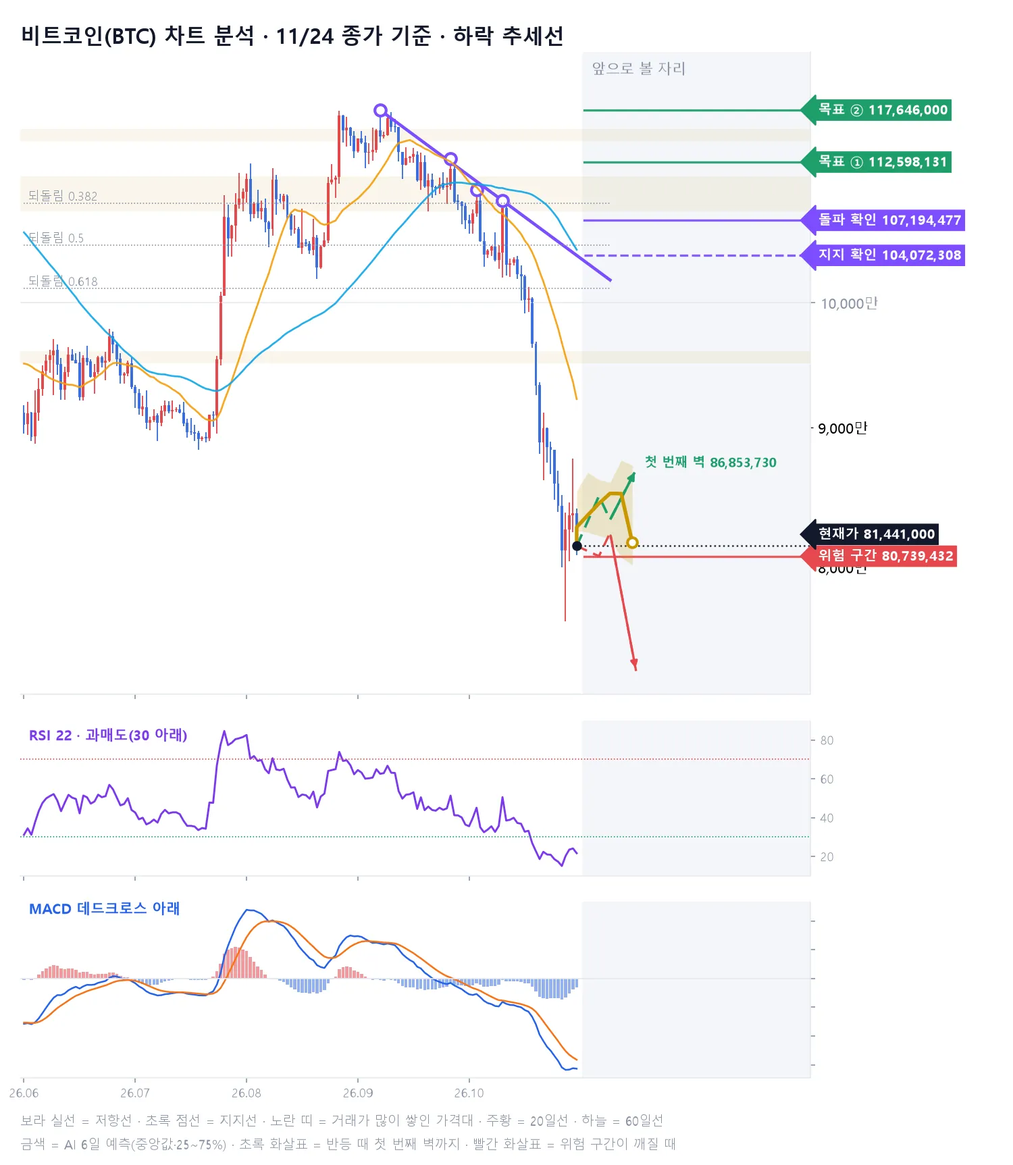
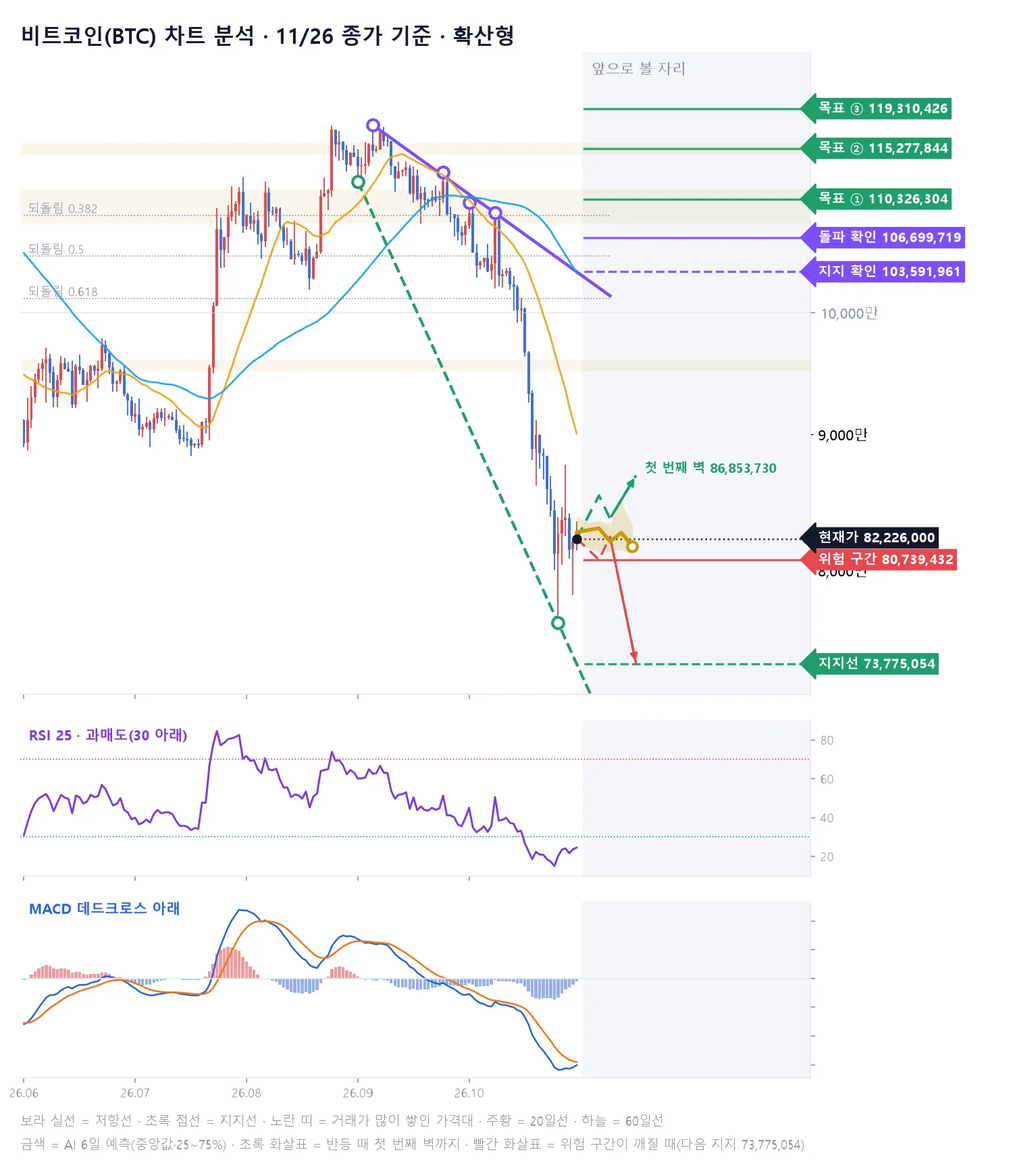
무료 공개 종목 페이지 자동 갱신

diff --git a/s/index.html b/s/index.html
@@ -93,8 +93,8 @@
     <h1>오늘의 무료 공개 종목</h1>
     <p style="margin:0;color:#B7BFD0">유튜브 쇼츠에 나온 종목의 AI 판정과 6일 예측 흐름을 누구나 볼 수 있어요</p>
   </section>
-  <div class="pk-list"><a class="card pk-item" href="ETH/"><span><b>이더리움(ETH)</b><small>코인 · 업비트 · 11/26 예측</small></span><b class="v-mx">혼돈</b></a><a class="card pk-item" href="UNI/"><span><b>유니스왑(UNI)</b><small>코인 · 업비트 · 11/27 예측</small></span><b class="v-mx">혼돈</b></a><a class="card pk-item" href="XLM/"><span><b>스텔라루멘(XLM)</b><small>코인 · 업비트 · 11/27 예측</small></span><b class="v-up">상승</b></a><a class="card pk-item" href="SUI/"><span><b>수이(SUI)</b><small>코인 · 업비트 · 11/27 예측</small></span><b class="v-up">상승</b></a><a class="card pk-item" href="AAVE/"><span><b>에이브(AAVE)</b><small>코인 · 업비트 · 11/27 예측</small></span><b class="v-mx">혼돈</b></a><a class="card pk-item" href="ZRO/"><span><b>레이어제로(ZRO)</b><small>코인 · 업비트 · 11/27 예측</small></span><b class="v-mx">혼돈</b></a><a class="card pk-item" href="JPY_KRW/"><span><b>엔/원 환율(JPY_KRW)</b><small>미국 주식 · 11/27 예측</small></span><b class="v-up">상승</b></a><a class="card pk-item" href="USD_KRW/"><span><b>원/달러 환율(USD_KRW)</b><small>미국 주식 · 11/27 예측</small></span><b class="v-up">상승</b></a><a class="card pk-item" href="SK%ED%95%98%EC%9D%B4%EB%8B%89%EC%8A%A4/"><span><b>SK하이닉스(000660)</b><small>코스피200 · 11/27 예측</small></span><b class="v-mx">혼돈</b></a><a class="card pk-item" href="%EC%82%BC%EC%84%B1%EC%A0%84%EC%9E%90/"><span><b>삼성전자(005930)</b><small>코스피200 · 11/26 예측</small></span><b class="v-mx">혼돈</b></a><a class="card pk-item" href="%ED%98%84%EB%8C%80%EA%B1%B4%EC%84%A4/"><span><b>현대건설</b><small>코스피200 · 11/27 예측</small></span><b class="v-up">상승</b></a><a class="card pk-item" href="KODEXWTI%EC%9B%90%EC%9C%A0%EC%84%A0%EB%AC%BCH/"><span><b>KODEXWTI원유선물H</b><small>코스피200 · 11/27 예측</small></span><b class="v-mx">혼돈</b></a><a class="card pk-item" href="%EC%82%BC%EC%84%B1%EC%A4%91%EA%B3%B5%EC%97%85/"><span><b>삼성중공업</b><small>코스피200 · 11/27 예측</small></span><b class="v-up">상승</b></a><a class="card pk-item" href="LS/"><span><b>LS</b><small>코스피200 · 11/27 예측</small></span><b class="v-up">상승</b></a><a class="card pk-item" href="KB%EA%B8%88%EC%9C%B5/"><span><b>KB금융</b><small>코스피200 · 11/27 예측</small></span><b class="v-up">상승</b></a><a class="card pk-item" href="KOSDAQ/"><span><b>코스닥(KOSDAQ)</b><small>코스피 지수 · 11/27 예측</small></span><b class="v-up">상승</b></a><a class="card pk-item" href="KOSPI/"><span><b>코스피(KOSPI)</b><small>코스피 지수 · 11/27 예측</small></span><b class="v-up">상승</b></a></div>
-  <h2 style="font-size:17px;margin:12px 0 0">지난 공개 종목</h2><div class="pk-list"><a class="card pk-item" href="ENS/"><span><b>이더리움네임서비스(ENS)</b><small>코인 · 업비트 · 11/26 예측</small></span><b class="v-up">상승</b></a><a class="card pk-item" href="1INCH/"><span><b>1인치네트워크(1INCH)</b><small>코인 · 업비트 · 11/26 예측</small></span><b class="v-mx">혼돈</b></a><a class="card pk-item" href="%EB%AF%B8%EB%9E%98%EC%97%90%EC%85%8B%EC%A6%9D%EA%B6%8C/"><span><b>미래에셋증권</b><small>코스피200 · 11/26 예측</small></span><b class="v-up">상승</b></a><a class="card pk-item" href="TIGER%EB%AF%B8%EA%B5%AD%ED%85%8C%ED%81%ACTOP10/"><span><b>TIGER미국테크TOP10</b><small>코스피200 · 11/26 예측</small></span><b class="v-up">상승</b></a><a class="card pk-item" href="KODEX200/"><span><b>KODEX200</b><small>코스피200 · 11/26 예측</small></span><b class="v-up">상승</b></a><a class="card pk-item" href="BTC/"><span><b>비트코인(BTC)</b><small>코인 · 업비트 · 11/25 예측</small></span><b class="v-up">상승</b></a><a class="card pk-item" href="NVIDIA/"><span><b>엔비디아(NVDA)</b><small>미국 주식 · 11/25 예측</small></span><b class="v-up">상승</b></a><a class="card pk-item" href="CHZ/"><span><b>칠리즈(CHZ)</b><small>코인 · 업비트 · 11/25 예측</small></span><b class="v-up">상승</b></a><a class="card pk-item" href="ARK/"><span><b>아크(ARK)</b><small>코인 · 업비트 · 11/25 예측</small></span><b class="v-mx">혼돈</b></a><a class="card pk-item" href="RUSSELL2000/"><span><b>러셀2000(RUSSELL2000)</b><small>미국 주식 · 11/25 예측</small></span><b class="v-up">상승</b></a><a class="card pk-item" href="MONSTER_BEVERAGE/"><span><b>몬스터 베버리지(MONSTER_BEVERAGE)</b><small>미국 주식 · 11/25 예측</small></span><b class="v-up">상승</b></a><a class="card pk-item" href="BITMINE/"><span><b>비트마인(BITMINE)</b><small>미국 주식 · 11/25 예측</small></span><b class="v-up">상승</b></a><a class="card pk-item" href="INTUIT/"><span><b>인튜이트(INTUIT)</b><small>미국 주식 · 11/25 예측</small></span><b class="v-up">상승</b></a><a class="card pk-item" href="GALAXY_DIGITAL/"><span><b>갤럭시 디지털(GALAXY_DIGITAL)</b><small>미국 주식 · 11/25 예측</small></span><b class="v-up">상승</b></a><a class="card pk-item" href="%EC%82%BC%EC%84%B1%EB%B0%94%EC%9D%B4%EC%98%A4%EB%A1%9C%EC%A7%81%EC%8A%A4/"><span><b>삼성바이오로직스</b><small>코스피200 · 11/25 예측</small></span><b class="v-mx">혼돈</b></a><a class="card pk-item" href="%EA%B3%A0%EB%A0%A4%EC%95%84%EC%97%B0/"><span><b>고려아연</b><small>코스피200 · 11/25 예측</small></span><b class="v-up">상승</b></a><a class="card pk-item" href="HD%ED%95%9C%EA%B5%AD%EC%A1%B0%EC%84%A0%ED%95%B4%EC%96%91/"><span><b>HD한국조선해양</b><small>코스피200 · 11/25 예측</small></span><b class="v-mx">혼돈</b></a><a class="card pk-item" href="SK%EC%9D%B4%EB%85%B8%EB%B2%A0%EC%9D%B4%EC%85%98/"><span><b>SK이노베이션</b><small>코스피200 · 11/25 예측</small></span><b class="v-up">상승</b></a><a class="card pk-item" href="ATH/"><span><b>에이셔(ATH)</b><small>코인 · 업비트 · 11/24 예측</small></span><b class="v-up">상승</b></a><a class="card pk-item" href="DATA/"><span><b>데이터네트워크(DATA)</b><small>코인 · 업비트 · 11/24 예측</small></span><b class="v-mx">혼돈</b></a><a class="card pk-item" href="KODEX2%EC%B0%A8%EC%A0%84%EC%A7%80%EC%82%B0%EC%97%85/"><span><b>KODEX2차전지산업</b><small>코스피200 · 11/24 예측</small></span><b class="v-up">상승</b></a><a class="card pk-item" href="TIGER2%EC%B0%A8%EC%A0%84%EC%A7%80%ED%85%8C%EB%A7%88/"><span><b>TIGER2차전지테마</b><small>코스피200 · 11/24 예측</small></span><b class="v-up">상승</b></a><a class="card pk-item" href="KODEX%EC%9E%90%EB%8F%99%EC%B0%A8/"><span><b>KODEX자동차</b><small>코스피200 · 11/24 예측</small></span><b class="v-up">상승</b></a><a class="card pk-item" href="%ED%95%9C%ED%99%94/"><span><b>한화</b><small>코스피200 · 11/24 예측</small></span><b class="v-up">상승</b></a><a class="card pk-item" href="SAND/"><span><b>샌드박스(SAND)</b><small>코인 · 업비트 · 11/23 예측</small></span><b class="v-up">상승</b></a><a class="card pk-item" href="MTL/"><span><b>메탈(MTL)</b><small>코인 · 업비트 · 11/22 예측</small></span><b class="v-up">상승</b></a><a class="card pk-item" href="TESLA/"><span><b>테슬라(TSLA)</b><small>미국 주식 · 11/21 예측</small></span><b class="v-up">상승</b></a><a class="card pk-item" href="PALANTIR/"><span><b>팔란티어(PALANTIR)</b><small>미국 주식 · 11/21 예측</small></span><b class="v-up">상승</b></a><a class="card pk-item" href="DOW/"><span><b>다우존스(DOW)</b><small>미국 주식 · 11/21 예측</small></span><b class="v-up">상승</b></a><a class="card pk-item" href="MERCADOLIBRE/"><span><b>메르카도리브레(MERCADOLIBRE)</b><small>미국 주식 · 11/21 예측</small></span><b class="v-up">상승</b></a><a class="card pk-item" href="%ED%95%9C%ED%99%94%EC%86%94%EB%A3%A8%EC%85%98/"><span><b>한화솔루션</b><small>코스피200 · 11/21 예측</small></span><b class="v-mx">혼돈</b></a><a class="card pk-item" href="KODEX%EB%AF%B8%EA%B5%AD%EB%82%98%EC%8A%A4%EB%8B%A5100TR/"><span><b>KODEX미국나스닥100TR</b><small>코스피200 · 11/21 예측</small></span><b class="v-up">상승</b></a><a class="card pk-item" href="ETC/"><span><b>이더리움클래식(ETC)</b><small>코인 · 업비트 · 11/21 예측</small></span><b class="v-up">상승</b></a><a class="card pk-item" href="MANA/"><span><b>디센트럴랜드(MANA)</b><small>코인 · 업비트 · 11/21 예측</small></span><b class="v-up">상승</b></a><a class="card pk-item" href="APT/"><span><b>앱토스(APT)</b><small>코인 · 업비트 · 11/20 예측</small></span><b class="v-up">상승</b></a><a class="card pk-item" href="STRAX/"><span><b>저트라(STRAX)</b><small>코인 · 업비트 · 11/20 예측</small></span><b class="v-up">상승</b></a><a class="card pk-item" href="%ED%95%9C%EC%A0%84%EA%B8%B0%EC%88%A0/"><span><b>한전기술</b><small>코스피200 · 11/20 예측</small></span><b class="v-up">상승</b></a><a class="card pk-item" href="KODEX%EA%B3%A8%EB%93%9C%EC%84%A0%EB%AC%BCH/"><span><b>KODEX골드선물H</b><small>코스피200 · 11/20 예측</small></span><b class="v-mx">혼돈</b></a><a class="card pk-item" href="STRATEGY/"><span><b>스트래티지(STRATEGY)</b><small>미국 주식 · 11/19 예측</small></span><b class="v-up">상승</b></a><a class="card pk-item" href="NETFLIX/"><span><b>넷플릭스(NETFLIX)</b><small>미국 주식 · 11/19 예측</small></span><b class="v-up">상승</b></a><a class="card pk-item" href="SHIB/"><span><b>시바이누(SHIB)</b><small>코인 · 업비트 · 11/19 예측</small></span><b class="v-up">상승</b></a><a class="card pk-item" href="TOKAMAK/"><span><b>토카막네트워크(TOKAMAK)</b><small>코인 · 업비트 · 11/19 예측</small></span><b class="v-up">상승</b></a><a class="card pk-item" href="TIGER%EB%AF%B8%EA%B5%ADSP500/"><span><b>TIGER미국SP500</b><small>코스피200 · 11/19 예측</small></span><b class="v-mx">혼돈</b></a><a class="card pk-item" href="%EA%B8%B0%EC%95%84/"><span><b>기아</b><small>코스피200 · 11/19 예측</small></span><b class="v-mx">혼돈</b></a><a class="card pk-item" href="%ED%98%84%EB%8C%80%EB%A1%9C%ED%85%9C/"><span><b>현대로템</b><small>코스피200 · 11/19 예측</small></span><b class="v-up">상승</b></a><a class="card pk-item" href="TIGER%EB%B0%98%EB%8F%84%EC%B2%B4TOP10/"><span><b>TIGER반도체TOP10</b><small>코스피200 · 11/19 예측</small></span><b class="v-up">상승</b></a><a class="card pk-item" href="MBL/"><span><b>무비블록(MBL)</b><small>코인 · 업비트 · 11/18 예측</small></span><b class="v-up">상승</b></a><a class="card pk-item" href="SC/"><span><b>시아코인(SC)</b><small>코인 · 업비트 · 11/18 예측</small></span><b class="v-up">상승</b></a><a class="card pk-item" href="ELF/"><span><b>엘프(ELF)</b><small>코인 · 업비트 · 11/18 예측</small></span><b class="v-up">상승</b></a><a class="card pk-item" href="NASDAQ100/"><span><b>나스닥100(NASDAQ100)</b><small>미국 주식 · 11/18 예측</small></span><b class="v-up">상승</b></a><a class="card pk-item" href="NASDAQ/"><span><b>나스닥(NASDAQ)</b><small>미국 주식 · 11/18 예측</small></span><b class="v-up">상승</b></a><a class="card pk-item" href="DB%ED%95%98%EC%9D%B4%ED%85%8D/"><span><b>DB하이텍</b><small>코스피200 · 11/18 예측</small></span><b class="v-up">상승</b></a><a class="card pk-item" href="%ED%95%9C%ED%99%94%EC%83%9D%EB%AA%85/"><span><b>한화생명</b><small>코스피200 · 11/18 예측</small></span><b class="v-mx">혼돈</b></a><a class="card pk-item" href="SOL/"><span><b>솔라나(SOL)</b><small>코인 · 업비트 · 11/17 예측</small></span><b class="v-up">상승</b></a><a class="card pk-item" href="HBAR/"><span><b>헤데라(HBAR)</b><small>코인 · 업비트 · 11/17 예측</small></span><b class="v-up">상승</b></a><a class="card pk-item" href="NEAR/"><span><b>니어프로토콜(NEAR)</b><small>코인 · 업비트 · 11/17 예측</small></span><b class="v-up">상승</b></a><a class="card pk-item" href="CISCO/"><span><b>시스코(CISCO)</b><small>미국 주식 · 11/17 예측</small></span><b class="v-up">상승</b></a><a class="card pk-item" href="DB%EC%86%90%ED%95%B4%EB%B3%B4%ED%97%98/"><span><b>DB손해보험</b><small>코스피200 · 11/17 예측</small></span><b class="v-up">상승</b></a><a class="card pk-item" href="NIKKEI225/"><span><b>NIKKEI225</b><small>코스피200 · 11/17 예측</small></span><b class="v-up">상승</b></a><a class="card pk-item" href="LG/"><span><b>LG</b><small>코스피200 · 11/17 예측</small></span><b class="v-up">상승</b></a><a class="card pk-item" href="NEO/"><span><b>네오(NEO)</b><small>코인 · 업비트 · 11/16 예측</small></span><b class="v-up">상승</b></a><a class="card pk-item" href="MED/"><span><b>메디블록(MED)</b><small>코인 · 업비트 · 11/16 예측</small></span><b class="v-up">상승</b></a><a class="card pk-item" href="VET/"><span><b>비체인(VET)</b><small>코인 · 업비트 · 11/16 예측</small></span><b class="v-up">상승</b></a><a class="card pk-item" href="TFUEL/"><span><b>쎄타퓨엘(TFUEL)</b><small>코인 · 업비트 · 11/16 예측</small></span><b class="v-up">상승</b></a><a class="card pk-item" href="SP500/"><span><b>S&amp;P500(SPX)</b><small>미국 주식 · 11/14 예측</small></span><b class="v-dn">하락</b></a><a class="card pk-item" href="BITCOIN_ETF_FIDELITY/"><span><b>비트코인 현물 피델리티(BITCOIN_ETF_FIDELITY)</b><small>미국 주식 · 11/14 예측</small></span><b class="v-up">상승</b></a><a class="card pk-item" href="BITCOIN_ETF_ISHARES/"><span><b>비트코인 현물 아이셰어즈(BITCOIN_ETF_ISHARES)</b><small>미국 주식 · 11/14 예측</small></span><b class="v-up">상승</b></a></div>
+  <div class="pk-list"><a class="card pk-item" href="BTC/"><span><b>비트코인(BTC)</b><small>코인 · 업비트 · 11/27 예측</small></span><b class="v-mx">혼돈</b></a><a class="card pk-item" href="ETH/"><span><b>이더리움(ETH)</b><small>코인 · 업비트 · 11/26 예측</small></span><b class="v-mx">혼돈</b></a><a class="card pk-item" href="UNI/"><span><b>유니스왑(UNI)</b><small>코인 · 업비트 · 11/27 예측</small></span><b class="v-mx">혼돈</b></a><a class="card pk-item" href="XLM/"><span><b>스텔라루멘(XLM)</b><small>코인 · 업비트 · 11/27 예측</small></span><b class="v-up">상승</b></a><a class="card pk-item" href="SUI/"><span><b>수이(SUI)</b><small>코인 · 업비트 · 11/27 예측</small></span><b class="v-up">상승</b></a><a class="card pk-item" href="AAVE/"><span><b>에이브(AAVE)</b><small>코인 · 업비트 · 11/27 예측</small></span><b class="v-mx">혼돈</b></a><a class="card pk-item" href="ZRO/"><span><b>레이어제로(ZRO)</b><small>코인 · 업비트 · 11/27 예측</small></span><b class="v-mx">혼돈</b></a><a class="card pk-item" href="JPY_KRW/"><span><b>엔/원 환율(JPY_KRW)</b><small>미국 주식 · 11/27 예측</small></span><b class="v-up">상승</b></a><a class="card pk-item" href="USD_KRW/"><span><b>원/달러 환율(USD_KRW)</b><small>미국 주식 · 11/27 예측</small></span><b class="v-up">상승</b></a><a class="card pk-item" href="SK%ED%95%98%EC%9D%B4%EB%8B%89%EC%8A%A4/"><span><b>SK하이닉스(000660)</b><small>코스피200 · 11/27 예측</small></span><b class="v-mx">혼돈</b></a><a class="card pk-item" href="%EC%82%BC%EC%84%B1%EC%A0%84%EC%9E%90/"><span><b>삼성전자(005930)</b><small>코스피200 · 11/26 예측</small></span><b class="v-mx">혼돈</b></a><a class="card pk-item" href="%ED%98%84%EB%8C%80%EA%B1%B4%EC%84%A4/"><span><b>현대건설</b><small>코스피200 · 11/27 예측</small></span><b class="v-up">상승</b></a><a class="card pk-item" href="KODEXWTI%EC%9B%90%EC%9C%A0%EC%84%A0%EB%AC%BCH/"><span><b>KODEXWTI원유선물H</b><small>코스피200 · 11/27 예측</small></span><b class="v-mx">혼돈</b></a><a class="card pk-item" href="%EC%82%BC%EC%84%B1%EC%A4%91%EA%B3%B5%EC%97%85/"><span><b>삼성중공업</b><small>코스피200 · 11/27 예측</small></span><b class="v-up">상승</b></a><a class="card pk-item" href="LS/"><span><b>LS</b><small>코스피200 · 11/27 예측</small></span><b class="v-up">상승</b></a><a class="card pk-item" href="KB%EA%B8%88%EC%9C%B5/"><span><b>KB금융</b><small>코스피200 · 11/27 예측</small></span><b class="v-up">상승</b></a><a class="card pk-item" href="KOSDAQ/"><span><b>코스닥(KOSDAQ)</b><small>코스피 지수 · 11/27 예측</small></span><b class="v-up">상승</b></a><a class="card pk-item" href="KOSPI/"><span><b>코스피(KOSPI)</b><small>코스피 지수 · 11/27 예측</small></span><b class="v-up">상승</b></a></div>
+  <h2 style="font-size:17px;margin:12px 0 0">지난 공개 종목</h2><div class="pk-list"><a class="card pk-item" href="ENS/"><span><b>이더리움네임서비스(ENS)</b><small>코인 · 업비트 · 11/26 예측</small></span><b class="v-up">상승</b></a><a class="card pk-item" href="1INCH/"><span><b>1인치네트워크(1INCH)</b><small>코인 · 업비트 · 11/26 예측</small></span><b class="v-mx">혼돈</b></a><a class="card pk-item" href="%EB%AF%B8%EB%9E%98%EC%97%90%EC%85%8B%EC%A6%9D%EA%B6%8C/"><span><b>미래에셋증권</b><small>코스피200 · 11/26 예측</small></span><b class="v-up">상승</b></a><a class="card pk-item" href="TIGER%EB%AF%B8%EA%B5%AD%ED%85%8C%ED%81%ACTOP10/"><span><b>TIGER미국테크TOP10</b><small>코스피200 · 11/26 예측</small></span><b class="v-up">상승</b></a><a class="card pk-item" href="KODEX200/"><span><b>KODEX200</b><small>코스피200 · 11/26 예측</small></span><b class="v-up">상승</b></a><a class="card pk-item" href="NVIDIA/"><span><b>엔비디아(NVDA)</b><small>미국 주식 · 11/25 예측</small></span><b class="v-up">상승</b></a><a class="card pk-item" href="CHZ/"><span><b>칠리즈(CHZ)</b><small>코인 · 업비트 · 11/25 예측</small></span><b class="v-up">상승</b></a><a class="card pk-item" href="ARK/"><span><b>아크(ARK)</b><small>코인 · 업비트 · 11/25 예측</small></span><b class="v-mx">혼돈</b></a><a class="card pk-item" href="RUSSELL2000/"><span><b>러셀2000(RUSSELL2000)</b><small>미국 주식 · 11/25 예측</small></span><b class="v-up">상승</b></a><a class="card pk-item" href="MONSTER_BEVERAGE/"><span><b>몬스터 베버리지(MONSTER_BEVERAGE)</b><small>미국 주식 · 11/25 예측</small></span><b class="v-up">상승</b></a><a class="card pk-item" href="BITMINE/"><span><b>비트마인(BITMINE)</b><small>미국 주식 · 11/25 예측</small></span><b class="v-up">상승</b></a><a class="card pk-item" href="INTUIT/"><span><b>인튜이트(INTUIT)</b><small>미국 주식 · 11/25 예측</small></span><b class="v-up">상승</b></a><a class="card pk-item" href="GALAXY_DIGITAL/"><span><b>갤럭시 디지털(GALAXY_DIGITAL)</b><small>미국 주식 · 11/25 예측</small></span><b class="v-up">상승</b></a><a class="card pk-item" href="%EC%82%BC%EC%84%B1%EB%B0%94%EC%9D%B4%EC%98%A4%EB%A1%9C%EC%A7%81%EC%8A%A4/"><span><b>삼성바이오로직스</b><small>코스피200 · 11/25 예측</small></span><b class="v-mx">혼돈</b></a><a class="card pk-item" href="%EA%B3%A0%EB%A0%A4%EC%95%84%EC%97%B0/"><span><b>고려아연</b><small>코스피200 · 11/25 예측</small></span><b class="v-up">상승</b></a><a class="card pk-item" href="HD%ED%95%9C%EA%B5%AD%EC%A1%B0%EC%84%A0%ED%95%B4%EC%96%91/"><span><b>HD한국조선해양</b><small>코스피200 · 11/25 예측</small></span><b class="v-mx">혼돈</b></a><a class="card pk-item" href="SK%EC%9D%B4%EB%85%B8%EB%B2%A0%EC%9D%B4%EC%85%98/"><span><b>SK이노베이션</b><small>코스피200 · 11/25 예측</small></span><b class="v-up">상승</b></a><a class="card pk-item" href="ATH/"><span><b>에이셔(ATH)</b><small>코인 · 업비트 · 11/24 예측</small></span><b class="v-up">상승</b></a><a class="card pk-item" href="DATA/"><span><b>데이터네트워크(DATA)</b><small>코인 · 업비트 · 11/24 예측</small></span><b class="v-mx">혼돈</b></a><a class="card pk-item" href="KODEX2%EC%B0%A8%EC%A0%84%EC%A7%80%EC%82%B0%EC%97%85/"><span><b>KODEX2차전지산업</b><small>코스피200 · 11/24 예측</small></span><b class="v-up">상승</b></a><a class="card pk-item" href="TIGER2%EC%B0%A8%EC%A0%84%EC%A7%80%ED%85%8C%EB%A7%88/"><span><b>TIGER2차전지테마</b><small>코스피200 · 11/24 예측</small></span><b class="v-up">상승</b></a><a class="card pk-item" href="KODEX%EC%9E%90%EB%8F%99%EC%B0%A8/"><span><b>KODEX자동차</b><small>코스피200 · 11/24 예측</small></span><b class="v-up">상승</b></a><a class="card pk-item" href="%ED%95%9C%ED%99%94/"><span><b>한화</b><small>코스피200 · 11/24 예측</small></span><b class="v-up">상승</b></a><a class="card pk-item" href="SAND/"><span><b>샌드박스(SAND)</b><small>코인 · 업비트 · 11/23 예측</small></span><b class="v-up">상승</b></a><a class="card pk-item" href="MTL/"><span><b>메탈(MTL)</b><small>코인 · 업비트 · 11/22 예측</small></span><b class="v-up">상승</b></a><a class="card pk-item" href="TESLA/"><span><b>테슬라(TSLA)</b><small>미국 주식 · 11/21 예측</small></span><b class="v-up">상승</b></a><a class="card pk-item" href="PALANTIR/"><span><b>팔란티어(PALANTIR)</b><small>미국 주식 · 11/21 예측</small></span><b class="v-up">상승</b></a><a class="card pk-item" href="DOW/"><span><b>다우존스(DOW)</b><small>미국 주식 · 11/21 예측</small></span><b class="v-up">상승</b></a><a class="card pk-item" href="MERCADOLIBRE/"><span><b>메르카도리브레(MERCADOLIBRE)</b><small>미국 주식 · 11/21 예측</small></span><b class="v-up">상승</b></a><a class="card pk-item" href="%ED%95%9C%ED%99%94%EC%86%94%EB%A3%A8%EC%85%98/"><span><b>한화솔루션</b><small>코스피200 · 11/21 예측</small></span><b class="v-mx">혼돈</b></a><a class="card pk-item" href="KODEX%EB%AF%B8%EA%B5%AD%EB%82%98%EC%8A%A4%EB%8B%A5100TR/"><span><b>KODEX미국나스닥100TR</b><small>코스피200 · 11/21 예측</small></span><b class="v-up">상승</b></a><a class="card pk-item" href="ETC/"><span><b>이더리움클래식(ETC)</b><small>코인 · 업비트 · 11/21 예측</small></span><b class="v-up">상승</b></a><a class="card pk-item" href="MANA/"><span><b>디센트럴랜드(MANA)</b><small>코인 · 업비트 · 11/21 예측</small></span><b class="v-up">상승</b></a><a class="card pk-item" href="APT/"><span><b>앱토스(APT)</b><small>코인 · 업비트 · 11/20 예측</small></span><b class="v-up">상승</b></a><a class="card pk-item" href="STRAX/"><span><b>저트라(STRAX)</b><small>코인 · 업비트 · 11/20 예측</small></span><b class="v-up">상승</b></a><a class="card pk-item" href="%ED%95%9C%EC%A0%84%EA%B8%B0%EC%88%A0/"><span><b>한전기술</b><small>코스피200 · 11/20 예측</small></span><b class="v-up">상승</b></a><a class="card pk-item" href="KODEX%EA%B3%A8%EB%93%9C%EC%84%A0%EB%AC%BCH/"><span><b>KODEX골드선물H</b><small>코스피200 · 11/20 예측</small></span><b class="v-mx">혼돈</b></a><a class="card pk-item" href="STRATEGY/"><span><b>스트래티지(STRATEGY)</b><small>미국 주식 · 11/19 예측</small></span><b class="v-up">상승</b></a><a class="card pk-item" href="NETFLIX/"><span><b>넷플릭스(NETFLIX)</b><small>미국 주식 · 11/19 예측</small></span><b class="v-up">상승</b></a><a class="card pk-item" href="SHIB/"><span><b>시바이누(SHIB)</b><small>코인 · 업비트 · 11/19 예측</small></span><b class="v-up">상승</b></a><a class="card pk-item" href="TOKAMAK/"><span><b>토카막네트워크(TOKAMAK)</b><small>코인 · 업비트 · 11/19 예측</small></span><b class="v-up">상승</b></a><a class="card pk-item" href="TIGER%EB%AF%B8%EA%B5%ADSP500/"><span><b>TIGER미국SP500</b><small>코스피200 · 11/19 예측</small></span><b class="v-mx">혼돈</b></a><a class="card pk-item" href="%EA%B8%B0%EC%95%84/"><span><b>기아</b><small>코스피200 · 11/19 예측</small></span><b class="v-mx">혼돈</b></a><a class="card pk-item" href="%ED%98%84%EB%8C%80%EB%A1%9C%ED%85%9C/"><span><b>현대로템</b><small>코스피200 · 11/19 예측</small></span><b class="v-up">상승</b></a><a class="card pk-item" href="TIGER%EB%B0%98%EB%8F%84%EC%B2%B4TOP10/"><span><b>TIGER반도체TOP10</b><small>코스피200 · 11/19 예측</small></span><b class="v-up">상승</b></a><a class="card pk-item" href="MBL/"><span><b>무비블록(MBL)</b><small>코인 · 업비트 · 11/18 예측</small></span><b class="v-up">상승</b></a><a class="card pk-item" href="SC/"><span><b>시아코인(SC)</b><small>코인 · 업비트 · 11/18 예측</small></span><b class="v-up">상승</b></a><a class="card pk-item" href="ELF/"><span><b>엘프(ELF)</b><small>코인 · 업비트 · 11/18 예측</small></span><b class="v-up">상승</b></a><a class="card pk-item" href="NASDAQ100/"><span><b>나스닥100(NASDAQ100)</b><small>미국 주식 · 11/18 예측</small></span><b class="v-up">상승</b></a><a class="card pk-item" href="NASDAQ/"><span><b>나스닥(NASDAQ)</b><small>미국 주식 · 11/18 예측</small></span><b class="v-up">상승</b></a><a class="card pk-item" href="DB%ED%95%98%EC%9D%B4%ED%85%8D/"><span><b>DB하이텍</b><small>코스피200 · 11/18 예측</small></span><b class="v-up">상승</b></a><a class="card pk-item" href="%ED%95%9C%ED%99%94%EC%83%9D%EB%AA%85/"><span><b>한화생명</b><small>코스피200 · 11/18 예측</small></span><b class="v-mx">혼돈</b></a><a class="card pk-item" href="SOL/"><span><b>솔라나(SOL)</b><small>코인 · 업비트 · 11/17 예측</small></span><b class="v-up">상승</b></a><a class="card pk-item" href="HBAR/"><span><b>헤데라(HBAR)</b><small>코인 · 업비트 · 11/17 예측</small></span><b class="v-up">상승</b></a><a class="card pk-item" href="NEAR/"><span><b>니어프로토콜(NEAR)</b><small>코인 · 업비트 · 11/17 예측</small></span><b class="v-up">상승</b></a><a class="card pk-item" href="CISCO/"><span><b>시스코(CISCO)</b><small>미국 주식 · 11/17 예측</small></span><b class="v-up">상승</b></a><a class="card pk-item" href="DB%EC%86%90%ED%95%B4%EB%B3%B4%ED%97%98/"><span><b>DB손해보험</b><small>코스피200 · 11/17 예측</small></span><b class="v-up">상승</b></a><a class="card pk-item" href="NIKKEI225/"><span><b>NIKKEI225</b><small>코스피200 · 11/17 예측</small></span><b class="v-up">상승</b></a><a class="card pk-item" href="LG/"><span><b>LG</b><small>코스피200 · 11/17 예측</small></span><b class="v-up">상승</b></a><a class="card pk-item" href="NEO/"><span><b>네오(NEO)</b><small>코인 · 업비트 · 11/16 예측</small></span><b class="v-up">상승</b></a><a class="card pk-item" href="MED/"><span><b>메디블록(MED)</b><small>코인 · 업비트 · 11/16 예측</small></span><b class="v-up">상승</b></a><a class="card pk-item" href="VET/"><span><b>비체인(VET)</b><small>코인 · 업비트 · 11/16 예측</small></span><b class="v-up">상승</b></a><a class="card pk-item" href="TFUEL/"><span><b>쎄타퓨엘(TFUEL)</b><small>코인 · 업비트 · 11/16 예측</small></span><b class="v-up">상승</b></a><a class="card pk-item" href="SP500/"><span><b>S&amp;P500(SPX)</b><small>미국 주식 · 11/14 예측</small></span><b class="v-dn">하락</b></a><a class="card pk-item" href="BITCOIN_ETF_FIDELITY/"><span><b>비트코인 현물 피델리티(BITCOIN_ETF_FIDELITY)</b><small>미국 주식 · 11/14 예측</small></span><b class="v-up">상승</b></a><a class="card pk-item" href="BITCOIN_ETF_ISHARES/"><span><b>비트코인 현물 아이셰어즈(BITCOIN_ETF_ISHARES)</b><small>미국 주식 · 11/14 예측</small></span><b class="v-up">상승</b></a></div>
   <section class="card pk-cta">
     <b style="font-size:17px">전체 종목 순위와 모델별 차트는 회원 화면에서</b>
     <a class="btn big red" href="../login.html?next=index.html#signup" data-member="../index.html" data-member-text="내 포털로 가기">7일 무료로 시작하기</a>

diff --git a/s/BTC/index.html b/s/BTC/index.html
@@ -3,13 +3,13 @@
 <head>
 <meta charset="utf-8">
 <meta name="viewport" content="width=device-width, initial-scale=1">
-<title>비트코인(BTC) 전망 11/25 · AI 52개 모델 6일 예측 | AI 신호등</title>
-<meta name="description" content="11/25 기준 비트코인(BTC) 다음 거래일 AI 판정은 &#x27;상승&#x27;. 52개 모델 중 상승 42 · 하락 3. 6일 뒤 예측 중앙값 +0.3%. 52개 예측 모델의 6일 가격 흐름을 신호등으로 정리했어요.">
+<title>비트코인(BTC) 전망 11/27 · AI 52개 모델 6일 예측 | AI 신호등</title>
+<meta name="description" content="11/27 기준 비트코인(BTC) 다음 거래일 AI 판정은 &#x27;혼돈&#x27;. 52개 모델 중 상승 30 · 하락 12. 6일 뒤 예측 중앙값 -0.6%. 52개 예측 모델의 6일 가격 흐름을 신호등으로 정리했어요.">
 <link rel="canonical" href="https://www.ai-sinhodeung.co.kr/s/BTC/">
 <meta property="og:type" content="article">
 <meta property="og:site_name" content="AI 신호등">
-<meta property="og:title" content="비트코인(BTC) 전망 11/25 · AI 52개 모델 6일 예측 | AI 신호등">
-<meta property="og:description" content="11/25 기준 비트코인(BTC) 다음 거래일 AI 판정은 &#x27;상승&#x27;. 52개 모델 중 상승 42 · 하락 3. 6일 뒤 예측 중앙값 +0.3%. 52개 예측 모델의 6일 가격 흐름을 신호등으로 정리했어요.">
+<meta property="og:title" content="비트코인(BTC) 전망 11/27 · AI 52개 모델 6일 예측 | AI 신호등">
+<meta property="og:description" content="11/27 기준 비트코인(BTC) 다음 거래일 AI 판정은 &#x27;혼돈&#x27;. 52개 모델 중 상승 30 · 하락 12. 6일 뒤 예측 중앙값 -0.6%. 52개 예측 모델의 6일 가격 흐름을 신호등으로 정리했어요.">
 <meta property="og:url" content="https://www.ai-sinhodeung.co.kr/s/BTC/">
 <meta property="og:image" content="https://www.ai-sinhodeung.co.kr/assets/og-image.png">
 <meta property="og:locale" content="ko_KR">
@@ -76,7 +76,7 @@
 .ca-g.npn { border-color: #C99700 !important; background: #FFF8E1; } .ca-g.npn b { color: #A87E00 !important; }
 .ca-flash { animation: caf 1.6s ease-out; } @keyframes caf { 0%, 40% { box-shadow: 0 0 0 3px #C99700; } 100% { box-shadow: 0 0 0 0 transparent; } }
 </style>
-<script type="application/ld+json">{"@context": "https://schema.org", "@type": "Article", "headline": "비트코인(BTC) 전망 11/25 · AI 52개 모델 6일 예측 | AI 신호등", "description": "11/25 기준 비트코인(BTC) 다음 거래일 AI 판정은 '상승'. 52개 모델 중 상승 42 · 하락 3. 6일 뒤 예측 중앙값 +0.3%. 52개 예측 모델의 6일 가격 흐름을 신호등으로 정리했어요.", "dateModified": "2026-11-25", "inLanguage": "ko", "url": "https://www.ai-sinhodeung.co.kr/s/BTC/", "publisher": {"@type": "Organization", "name": "AI 신호등", "url": "https://www.ai-sinhodeung.co.kr"}}</script>
+<script type="application/ld+json">{"@context": "https://schema.org", "@type": "Article", "headline": "비트코인(BTC) 전망 11/27 · AI 52개 모델 6일 예측 | AI 신호등", "description": "11/27 기준 비트코인(BTC) 다음 거래일 AI 판정은 '혼돈'. 52개 모델 중 상승 30 · 하락 12. 6일 뒤 예측 중앙값 -0.6%. 52개 예측 모델의 6일 가격 흐름을 신호등으로 정리했어요.", "dateModified": "2026-11-27", "inLanguage": "ko", "url": "https://www.ai-sinhodeung.co.kr/s/BTC/", "publisher": {"@type": "Organization", "name": "AI 신호등", "url": "https://www.ai-sinhodeung.co.kr"}}</script>
 </head>
 <body class="home landing">
 <header class="topbar">
@@ -89,65 +89,65 @@
 
 <main class="pk">
   <section class="pk-hero on-night">
-    <small>코인 · 업비트 · 11/25 예측 · AI 모델 52개</small>
+    <small>코인 · 업비트 · 11/27 예측 · AI 모델 52개</small>
     <h1>비트코인(BTC) 전망</h1>
   </section>
 
   <section class="card">
     <div class="pk-verdict">
-      <div class="lamp up" aria-hidden="true"><i></i><i></i><i></i></div>
+      <div class="lamp mx" aria-hidden="true"><i></i><i></i><i></i></div>
       <div><small style="color:var(--muted);font-size:12.5px">다음 거래일(D+1) AI 판정</small><br>
-        <b class="v-up">상승</b><br><span>52개 모델 중 상승 42 · 하락 3</span></div>
+        <b class="v-mx">혼돈</b><br><span>52개 모델 중 상승 30 · 하락 12</span></div>
     </div>
-    <p style="margin:10px 0 0;color:var(--sub);font-size:14px">참고: D+4 고점 후 되돌림</p>
+    <p style="margin:10px 0 0;color:var(--sub);font-size:14px">참고: D+3 고점 후 되돌림</p>
   </section>
 
   <section class="card">
     <h3 style="margin-bottom:6px">6일 예측 흐름</h3>
-    <p class="hint" style="margin:0 0 10px;font-size:13px">기준가 81,441,000원 · 6일 뒤 예측 중앙값 <b class="v-up">+0.3%</b></p>
+    <p class="hint" style="margin:0 0 10px;font-size:13px">기준가 82,226,000원 · 6일 뒤 예측 중앙값 <b class="v-mx">-0.6%</b></p>
     <svg viewBox="0 0 520 300" role="img" aria-label="최근 8일 종가와 앞으로 6일 예측 범위" class="pk-chart">
   <line x1="277.1" y1="30" x2="277.1" y2="266" stroke="#C5CAD6" stroke-dasharray="4 4"/>
-  <polygon points="277.1,217.3 315.2,121.2 353.4,88.6 391.5,101.2 429.7,106.6 467.8,65.7 506.0,75.0 506.0,249.7 467.8,237.1 429.7,204.7 391.5,200.1 353.4,194.0 315.2,190.7 277.1,217.3" fill="#E5383B" fill-opacity=".14"/>
-  <polyline points="10.0,46.3 48.2,108.8 86.3,147.7 124.5,224.9 162.6,188.6 200.8,164.8 238.9,160.7 277.1,217.3" fill="none" stroke="#12182B" stroke-width="2.4" stroke-linejoin="round"/>
-  <polyline points="277.1,217.3 315.2,185.0 353.4,164.1 391.5,143.6 429.7,125.8 467.8,126.2 506.0,211.4" fill="none" stroke="#E5383B" stroke-width="3" stroke-linejoin="round"/>
-  <circle cx="277.1" cy="217.3" r="4.5" fill="#12182B"/>
-  <circle cx="506.0" cy="211.4" r="6" fill="#fff" stroke="#E5383B" stroke-width="3"/>
-  <text x="506" y="20" text-anchor="end" font-size="18" font-weight="700" fill="#E5383B">6일 뒤 +0.3%</text>
-  <text x="10" y="290" font-size="15" fill="#8A93A6">11-17</text>
-  <text x="277.1" y="290" font-size="15" fill="#12182B" text-anchor="middle" font-weight="600">11-24 기준</text>
-  <text x="506" y="290" font-size="15" fill="#8A93A6" text-anchor="end">11-30</text>
+  <polygon points="277.1,190.0 315.2,101.0 353.4,130.0 391.5,122.7 429.7,132.2 467.8,46.3 506.0,140.1 506.0,249.7 467.8,231.5 429.7,238.8 391.5,239.7 353.4,226.7 315.2,197.6 277.1,190.0" fill="#C99700" fill-opacity=".14"/>
+  <polyline points="10.0,81.6 48.2,248.5 86.3,170.0 124.5,118.6 162.6,109.7 200.8,232.0 238.9,201.8 277.1,190.0" fill="none" stroke="#12182B" stroke-width="2.4" stroke-linejoin="round"/>
+  <polyline points="277.1,190.0 315.2,164.5 353.4,157.9 391.5,150.1 429.7,201.2 467.8,167.2 506.0,218.5" fill="none" stroke="#C99700" stroke-width="3" stroke-linejoin="round"/>
+  <circle cx="277.1" cy="190.0" r="4.5" fill="#12182B"/>
+  <circle cx="506.0" cy="218.5" r="6" fill="#fff" stroke="#C99700" stroke-width="3"/>
+  <text x="506" y="20" text-anchor="end" font-size="18" font-weight="700" fill="#C99700">6일 뒤 -0.6%</text>
+  <text x="10" y="290" font-size="15" fill="#8A93A6">11-19</text>
+  <text x="277.1" y="290" font-size="15" fill="#12182B" text-anchor="middle" font-weight="600">11-26 기준</text>
+  <text x="506" y="290" font-size="15" fill="#8A93A6" text-anchor="end">12-02</text>
 </svg>
-    <div class="pk-legend"><span><i style="background:#12182B"></i>실제 종가</span><span><i style="background:#E5383B"></i>모델 예측 중앙값</span><span><i style="background:#E5383B;height:8px;opacity:.2"></i>모델 25~75% 범위</span></div>
+    <div class="pk-legend"><span><i style="background:#12182B"></i>실제 종가</span><span><i style="background:#C99700"></i>모델 예측 중앙값</span><span><i style="background:#C99700;height:8px;opacity:.2"></i>모델 25~75% 범위</span></div>
   </section>
 
 
   <section class="card pk-cta">
     <b style="font-size:17px">📐 차트로 보면 어떤 자리일까?</b>
-    <p style="font-size:15px;color:var(--ink)">📊 차트 신호 점수 <b style="color:#8A93A6">28점 · 약</b> · AI 포함 <b style="color:#C99700">42점 · 중</b></p>
+    <p style="font-size:15px;color:var(--ink)">📊 차트 신호 점수 <b style="color:#8A93A6">28점 · 약</b> · AI 포함 <b style="color:#8A93A6">32점 · 약</b></p>
     <button class="btn big" type="button" onclick="var c=document.getElementById('ca');c.classList.toggle('open');this.textContent=c.classList.contains('open')?'차트 분석 접기':'📐 차트 분석 보기';if(c.classList.contains('open')){c.scrollIntoView({behavior:'smooth'});try{Portal.track('pick_chart')}catch(e){}}">📐 차트 분석 보기</button>
     <p>추세선·지지선·피보나치·거래가 몰린 가격대를 자동으로 그려서, 앞으로 볼 자리를 정리했어요</p>
   </section>
 
   <section class="card ca" id="ca">
-    <h3 style="margin:0">비트코인(BTC) 차트 분석 <small style="color:var(--muted);font-weight:400;font-size:13px">11/24 종가 81,441,000원 기준</small></h3>
+    <h3 style="margin:0">비트코인(BTC) 차트 분석 <small style="color:var(--muted);font-weight:400;font-size:13px">11/26 종가 82,226,000원 기준</small></h3>
     <div class="ca-strip" aria-label="패턴 한눈에 (진한 색 = 해당, 빗금 = 근접)" onclick="var b=event.target.closest('button[data-k]');if(!b)return;var c=[].find.call(document.querySelectorAll('#ca .ca-g[data-k]'),function(d){return d.getAttribute('data-k')===b.getAttribute('data-k')});if(!c)return;c.scrollIntoView({behavior:'smooth',block:'center'});c.classList.remove('ca-flash');void c.offsetWidth;c.classList.add('ca-flash')"><button type="button" class="d" data-k="이동평균" title="이동평균 · 해당">역배열</button><span class="sep"></span><button type="button" class="off" data-k="역헤드앤숄더" title="역헤드앤숄더 · 아님">역헤드앤숄더</button><button type="button" class="off" data-k="헤드앤숄더" title="헤드앤숄더 · 아님">헤드앤숄더</button><button type="button" class="off" data-k="컵앤핸들" title="컵앤핸들 · 아님">컵앤핸들</button><button type="button" class="off" data-k="이중 바닥(W)" title="이중 바닥(W) · 아님">이중 바닥</button><button type="button" class="off" data-k="이중 천장(M)" title="이중 천장(M) · 아님">이중 천장</button><button type="button" class="off" data-k="하락쐐기" title="하락쐐기 · 아님">하락쐐기</button><button type="button" class="off" data-k="상승쐐기" title="상승쐐기 · 아님">상승쐐기</button><button type="button" class="off" data-k="3 Tight Closes" title="3 Tight Closes · 아님">3 Tight Closes</button><button type="button" class="off" data-k="상승 페넌트" title="상승 페넌트 · 아님">상승 페넌트</button><button type="button" class="off" data-k="상승 깃발" title="상승 깃발 · 아님">상승 깃발</button><button type="button" class="off" data-k="과장 상승 다이버전스" title="과장 상승 다이버전스 · 아님">과장 상승 다이버</button></div><small style="color:var(--muted);font-size:12px;margin-top:-8px">진한 색 = 해당 · 빗금 = 근접 · 누르면 아래 설명으로 가요</small>
-    <a href="chart.webp?v=2026-11-24" target="_blank" rel="noopener"><img src="chart.webp?v=2026-11-24" alt="비트코인(BTC) 차트 분석: 저항선·지지선·앞으로 볼 자리" loading="lazy"></a>
+    <a href="chart.webp?v=2026-11-26" target="_blank" rel="noopener"><img src="chart.webp?v=2026-11-26" alt="비트코인(BTC) 차트 분석: 저항선·지지선·앞으로 볼 자리" loading="lazy"></a>
     <small style="color:var(--muted);font-size:12px;margin-top:-8px">그림을 누르면 크게 볼 수 있어요</small>
-    <div class="ca-pat">지금 모양: <b>하락 추세선</b><br>고점이 차례로 낮아지는 하락 흐름 — 이 선을 위로 넘어서야 흐름이 바뀐 걸로 봐요</div>
+    <div class="ca-pat">지금 모양: <b>확산형</b><br>위아래 폭이 넓어지는 불안정한 모양 — 방향이 정해질 때까지 기다려요</div>
     
     <div class="ca-score">
       <h4 style="margin:0 0 8px">📊 차트 신호 점검</h4>
       <h4 style="margin:4px 0 0">🔎 패턴 점검</h4><div class="ca-grid"><div class="ca-g" data-k="이동평균" style="border-color:#3B6FE0"><span>이동평균</span><b style="color:#3B6FE0">역배열</b></div><div class="ca-g off" data-k="역헤드앤숄더" style=""><span>역헤드앤숄더</span><b style="color:#9AA3B5">아님</b></div><div class="ca-g off" data-k="헤드앤숄더" style=""><span>헤드앤숄더</span><b style="color:#9AA3B5">아님</b></div><div class="ca-g off" data-k="컵앤핸들" style=""><span>컵앤핸들</span><b style="color:#9AA3B5">아님</b></div><div class="ca-g off" data-k="이중 바닥(W)" style=""><span>이중 바닥(W)</span><b style="color:#9AA3B5">아님</b></div><div class="ca-g off" data-k="이중 천장(M)" style=""><span>이중 천장(M)</span><b style="color:#9AA3B5">아님</b></div><div class="ca-g off" data-k="하락쐐기" style=""><span>하락쐐기</span><b style="color:#9AA3B5">아님</b></div><div class="ca-g off" data-k="상승쐐기" style=""><span>상승쐐기</span><b style="color:#9AA3B5">아님</b></div></div><small style="color:var(--muted);font-size:12px">가능성 = 모양이 만들어지는 중 · 정해 둔 규칙에 맞을 때만 표시해요</small><h4 style="margin:10px 0 0">🧩 매매 패턴 <small style="font-weight:400;color:var(--muted);font-size:12px">5년 검증에서 통한 4가지</small></h4><div class="ca-grid"><div class="ca-g off" data-k="3 Tight Closes"><span>3 Tight Closes</span><b>아님</b></div><div class="ca-g off" data-k="상승 페넌트"><span>상승 페넌트</span><b>아님</b></div><div class="ca-g off" data-k="상승 깃발"><span>상승 깃발</span><b>아님</b></div><div class="ca-g off" data-k="과장 상승 다이버전스"><span>과장 상승 다이버전스</span><b>아님</b></div></div>
-      <div class="ca-scs"><div class="ca-sc"><small>차트만 본 점수</small><b style="color:#8A93A6">28</b><span style="background:#8A93A6">약</span></div><div class="ca-sc"><small>AI 예측까지 넣은 점수</small><b style="color:#C99700">42</b><span style="background:#C99700">중</span></div></div>
-      <div class="ca-chips"><span class="ca-chip">⚪ 하락 추세선 · 형성 중</span></div>
+      <div class="ca-scs"><div class="ca-sc"><small>차트만 본 점수</small><b style="color:#8A93A6">28</b><span style="background:#8A93A6">약</span></div><div class="ca-sc"><small>AI 예측까지 넣은 점수</small><b style="color:#8A93A6">32</b><span style="background:#8A93A6">약</span></div></div>
+      <div class="ca-chips"><span class="ca-chip">⚪ 확산형 · 형성 중</span></div>
       <ul class="ca-ck"><li>▫ 반전 첫 신호(저점 상승)</li><li>▫ 전고 돌파(추세 완성)</li><li>▫ 거래량 1.5배</li><li>▫ 상승 다이버전스</li><li>▫ 하락 다이버전스 없음</li><li>▫ 큰 상승(깃대) +100%</li><li>▫ 되돌림 0.618 안</li></ul>
       
       <small style="color:var(--muted);font-size:12px">모양 10/40 · 점검표 0/42 · 시장 18/18 · AI 넣은 점수 = 차트×0.8 + AI 판정(상승 20·혼돈 10·하락 0) · 70↑ 강 · 40~69 중 · 40↓ 약<br>
       조건이 몇 개 맞는지 센 점수예요. 앞으로 오를 확률이 아니에요.</small>
     </div>
-    <div class="ca-combo"><b>🤖 AI 예측과 같이 보면</b><br>다음 거래일 AI 판정 &#x27;상승&#x27;. AI 6일 예측 중앙값은 +0.3%(81,679,115)로, 저항선(104,072,308)까지는 못 미쳐요 → 당분간은 돌파보다 아래 지지 자리를 지키는지 보는 구간이에요.</div>
-    <div><h4 style="margin:0 0 8px">앞으로 볼 자리</h4><div class="ca-lv"><div class="goal"><b>목표 구간 ③</b><span>130,790,280원</span><small>수평 고점</small></div><div class="goal"><b>목표 구간 ②</b><span>117,646,000원</span><small>패턴 시작 고점</small></div><div class="goal"><b>목표 구간 ①</b><span>112,598,131원</span><small>수평 고점</small></div><div class="watch"><b>돌파 확인 자리</b><span>107,194,477원</span><small>종가가 저항선보다 3% 넘게 위에서 마감 (돌파 뒤 100,950,138 아래로 다시 마감하면 돌파 실패)</small></div><div class="watch"><b>지지 확인 자리</b><span>104,072,308원</span><small>돌파 뒤 저항선이 받쳐 주는지</small></div><div class="risk"><b>위험 구간</b><span>80,739,432원</span><small>지금 가격 아래 지지선. 이 아래로 마감하면 하락 흐름이 이어질 수 있어요</small></div></div></div>
-    <div><h4 style="margin:0 0 6px">해석</h4><ul><li>저항선이 하루에 약 0.2%씩 내려오고 있어서, &#x27;돌파 확인 자리&#x27;도 날마다 조금씩 낮아져요. 저항선까지 거리가 있어서, 그림의 초록 점선은 바로 위 첫 번째 벽까지 반등할 때의 흐름이에요.</li><li>지금 가격은 저항선보다 28% 아래예요. 아직 돌파를 말하기엔 거리가 있어요.</li><li>직전 큰 상승분을 모두 되돌렸어요. 새 바닥이 확인될 때까지는 조심스럽게 봐요.</li><li>아래에서 받쳐 줄 자리: 80,739,432</li><li>이더리움 상태: 특별한 경고 없음</li></ul></div>
+    <div class="ca-combo"><b>🤖 AI 예측과 같이 보면</b><br>다음 거래일 AI 판정 &#x27;혼돈&#x27;. AI 6일 예측 중앙값은 -0.6%(81,693,023)로, 저항선(103,591,961)까지는 못 미쳐요 → 당분간은 돌파보다 아래 지지 자리를 지키는지 보는 구간이에요.</div>
+    <div><h4 style="margin:0 0 8px">앞으로 볼 자리</h4><div class="ca-lv"><div class="goal"><b>목표 구간 ③</b><span>119,310,426원</span><small>수평 고점</small></div><div class="goal"><b>목표 구간 ②</b><span>115,277,844원</span><small>패턴 높이</small></div><div class="goal"><b>목표 구간 ①</b><span>110,326,304원</span><small>수평 고점</small></div><div class="watch"><b>돌파 확인 자리</b><span>106,699,719원</span><small>종가가 저항선보다 3% 넘게 위에서 마감 (돌파 뒤 100,484,202 아래로 다시 마감하면 돌파 실패)</small></div><div class="watch"><b>지지 확인 자리</b><span>103,591,961원</span><small>돌파 뒤 저항선이 받쳐 주는지</small></div><div class="risk"><b>위험 구간</b><span>80,739,432원</span><small>지금 가격 아래 지지선. 이 아래로 마감하면 하락 흐름이 이어질 수 있어요 — 깨지면 다음 지지 73,775,054까지 열려 있어요</small></div></div></div>
+    <div><h4 style="margin:0 0 6px">해석</h4><ul><li>저항선이 하루에 약 0.2%씩 내려오고 있어서, &#x27;돌파 확인 자리&#x27;도 날마다 조금씩 낮아져요. 저항선까지 거리가 있어서, 그림의 초록 점선은 바로 위 첫 번째 벽까지 반등할 때의 흐름이에요.</li><li>지금 가격은 저항선보다 26% 아래예요. 아직 돌파를 말하기엔 거리가 있어요.</li><li>직전 큰 상승분을 모두 되돌렸어요. 새 바닥이 확인될 때까지는 조심스럽게 봐요.</li><li>아래에서 받쳐 줄 자리: 80,739,432 / 73,775,054</li><li>이더리움 상태: 특별한 경고 없음</li></ul></div>
     <p class="pk-note" style="text-align:left">차트 모양을 규칙대로 자동 분석한 참고 자료예요. 특정 가격에 사고팔라는 권유가 아니며, 가격이 어느 자리에 있는지 보는 용도로만 써 주세요.</p>
   </section>
 
